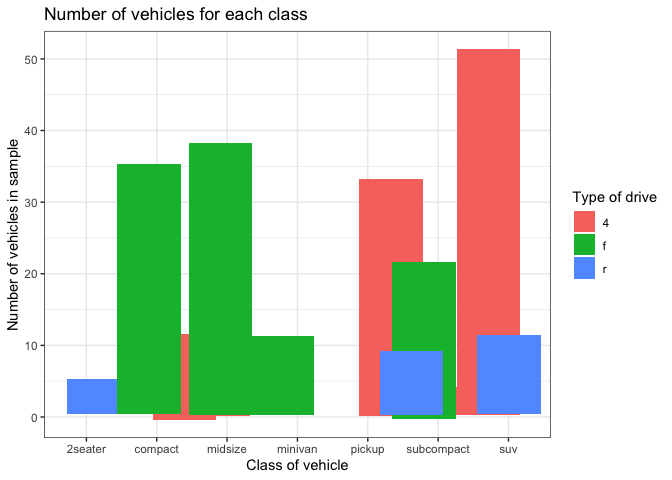
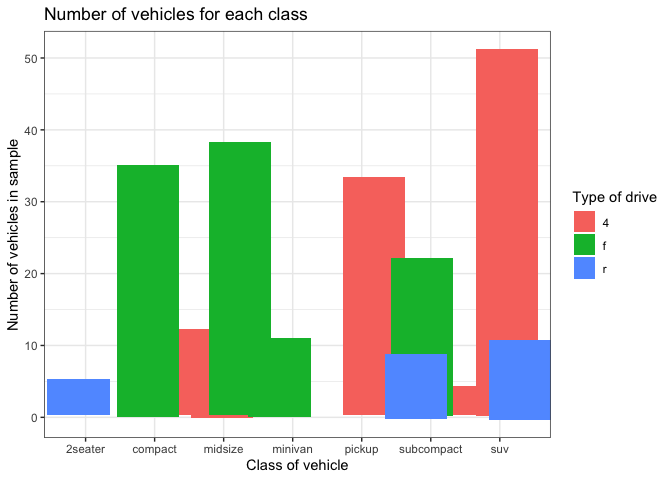
Removed warning messages

diff --git a/week-4-visualize-exercises.md b/week-4-visualize-exercises.md
@@ -66,8 +66,6 @@ ggplot(mpg) +
   geom_histogram(aes(x = hwy))
 ```
 
-    `stat_bin()` using `bins = 30`. Pick better value `binwidth`.
-
 ![](week-4-visualize-exercises_files/figure-commonmark/histogram-mpg-hwy-1.png)
 
 ## Your Turn 4
@@ -185,8 +183,6 @@ ggplot(mpg) +
   geom_smooth(aes(displ, hwy)) 
 ```
 
-    `geom_smooth()` using method = 'loess' and formula = 'y ~ x'
-
 ![](week-4-visualize-exercises_files/figure-commonmark/test-code-1.png)
 
 ``` r
@@ -201,8 +197,6 @@ ggplot(mpg, aes(x=displ, y = hwy)) +
               method = "lm") + #linear regression model
   scale_color_viridis_d() #colorblind scale
 ```
-
-    `geom_smooth()` using formula = 'y ~ x'
 
 ![](week-4-visualize-exercises_files/figure-commonmark/universal-aesthetics-1.png)
 
